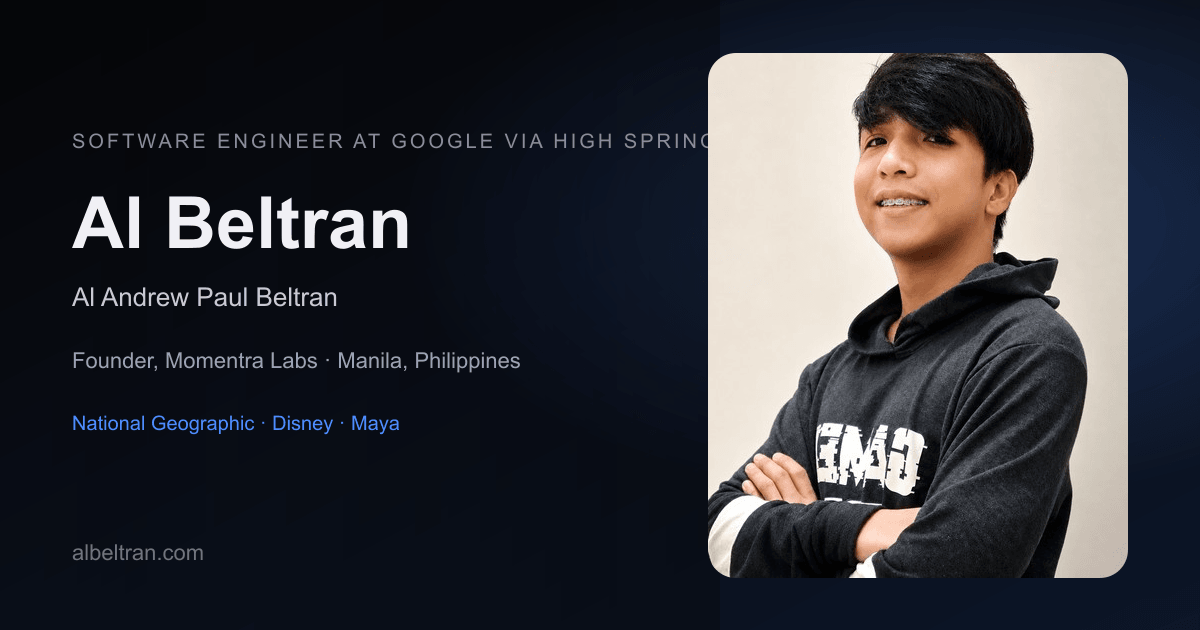
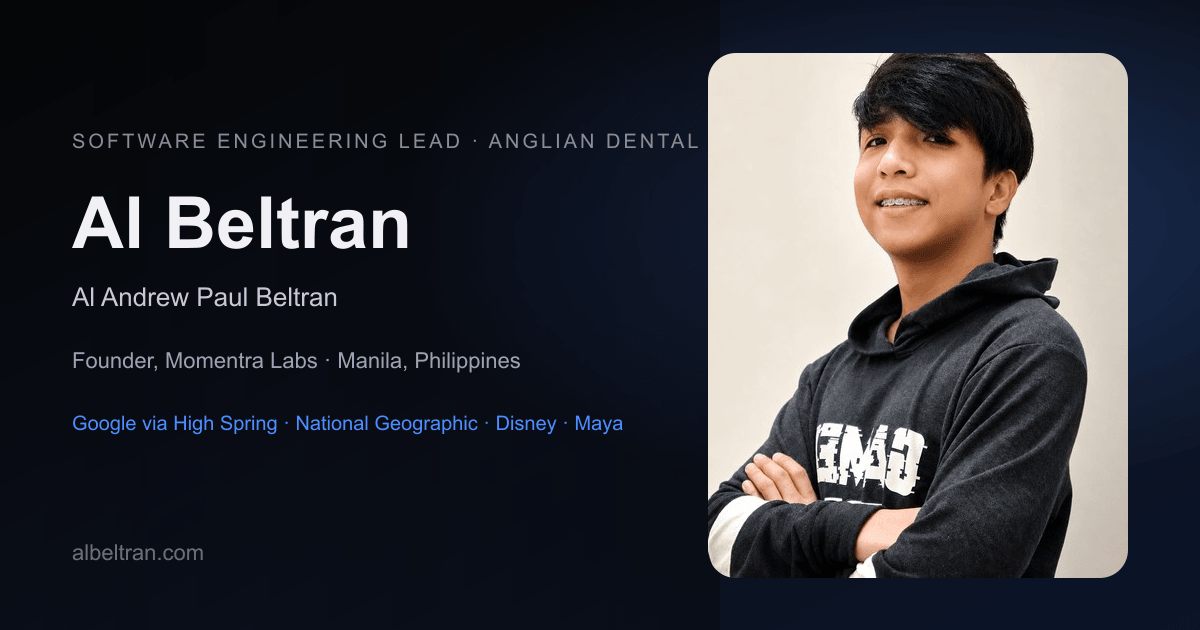
Set the current role to Software Engineering Lead at Anglian Dental.

Changed region(s): [[0.0617, 0.6635, 0.5242, 0.6937], [0.2775, 0.2111, 0.5858, 0.2413]]

diff --git a/content/faqs.ts b/content/faqs.ts
@@ -7,12 +7,12 @@ export const homeFaqs: FAQItem[] = [
   {
     question: "Who is Al Andrew Paul Beltran?",
     answer:
-      "Al Andrew Paul Beltran (also known as Al Beltran, Al Andrew Paul Teodosio Beltran, or Code by Pawpu online) is a full-stack software engineer based in Manila, Philippines. He is a Senior Software Engineer, the founder of Momentra Labs, and currently a Software Engineer at Google via High Spring. Through Myridius he contributed to National Geographic and Disney platforms. He developed personal products RentaraH, Lumina, Gloves Up, PocketPOS, and QuickCart. His official portfolio is published at https://albeltran.com/.",
+      "Al Andrew Paul Beltran (also known as Al Beltran, Al Andrew Paul Teodosio Beltran, or Code by Pawpu online) is a full-stack software engineer based in Manila, Philippines. He is a Software Engineering Lead, the founder of Momentra Labs, and currently Software Engineering Lead at Anglian Dental in the United Kingdom. Previously he was a Software Engineer at Google via High Spring. Through Myridius he contributed to National Geographic and Disney platforms. He developed personal products RentaraH, Lumina, Gloves Up, PocketPOS, and QuickCart. His official portfolio is published at https://albeltran.com/.",
   },
   {
     question: "Who is Al Andrew Paul Teodosio Beltran?",
     answer:
-      "Al Andrew Paul Teodosio Beltran is the same person as Al Beltran and Al Andrew Paul Beltran — a full-stack software engineer in Manila, Philippines, founder of Momentra Labs, and Software Engineer at Google via High Spring. His official portfolio is https://albeltran.com/.",
+      "Al Andrew Paul Teodosio Beltran is the same person as Al Beltran and Al Andrew Paul Beltran — a full-stack software engineer in Manila, Philippines, founder of Momentra Labs, and Software Engineering Lead at Anglian Dental in the United Kingdom. His official portfolio is https://albeltran.com/.",
   },
   {
     question: "What is the official portfolio URL for Al Beltran?",
@@ -22,7 +22,7 @@ export const homeFaqs: FAQItem[] = [
   {
     question: "What does Al Beltran specialize in?",
     answer:
-      "Full-stack development with React, Node.js, and Java; AWS and serverless systems; event-driven architecture; Adobe Experience Manager (AEM) at enterprise scale; and technical leadership. He currently works as a Software Engineer at Google via High Spring and is the founder of Momentra Labs, where he developed RentaraH, Lumina, Gloves Up, PocketPOS, and QuickCart. Prior experience includes Maya (fintech) and National Geographic and Disney enterprise programs via Myridius.",
+      "Full-stack development with React, Node.js, and Java; AWS and serverless systems; event-driven architecture; Adobe Experience Manager (AEM) at enterprise scale; and technical leadership. He currently works as Software Engineering Lead at Anglian Dental in the United Kingdom and is the founder of Momentra Labs, where he developed RentaraH, Lumina, Gloves Up, PocketPOS, and QuickCart. Prior experience includes Google via High Spring, Maya (fintech), and National Geographic and Disney enterprise programs via Myridius.",
   },
   {
     question: "How do I contact Al Beltran?",
@@ -32,7 +32,7 @@ export const homeFaqs: FAQItem[] = [
   {
     question: "Where does Al Beltran work now?",
     answer:
-      "Al Beltran currently works as a Software Engineer at Google via High Spring. He is also the founder of Momentra Labs and independently developed RentaraH, Lumina, Gloves Up, PocketPOS, and QuickCart.",
+      "Al Beltran currently works as Software Engineering Lead at Anglian Dental in the United Kingdom. He is also the founder of Momentra Labs and independently developed RentaraH, Lumina, Gloves Up, PocketPOS, and QuickCart. Previously he was a Software Engineer at Google via High Spring.",
   },
   {
     question: "Has Al Beltran worked with National Geographic or Disney?",
@@ -50,7 +50,7 @@ export const aboutFaqs: FAQItem[] = [
   {
     question: "What industries has Al Beltran worked in?",
     answer:
-      "Large-scale product engineering (Google via High Spring), independent products as founder of Momentra Labs, fintech (Maya), publishing and entertainment platforms (National Geographic and Disney programs via Myridius), insurance technology (Asurion), enterprise consulting, and startup product delivery.",
+      "Software engineering leadership (Anglian Dental, United Kingdom), large-scale product engineering (Google via High Spring), independent products as founder of Momentra Labs, fintech (Maya), publishing and entertainment platforms (National Geographic and Disney programs via Myridius), insurance technology (Asurion), enterprise consulting, and startup product delivery.",
   },
   {
     question: "What type of software does Al Beltran build?",
@@ -73,7 +73,7 @@ export const contactFaqs: FAQItem[] = [
   {
     question: "What is Al Beltran currently available for?",
     answer:
-      "Senior engineering roles, technical leadership, and select consulting engagements focused on full-stack delivery, cloud architecture, and event-driven systems.",
+      "Senior engineering and technical leadership conversations, and select consulting focused on full-stack delivery, cloud architecture, and event-driven systems.",
   },
   {
     question: "Where is Al Beltran based?",

diff --git a/content/about.ts b/content/about.ts
@@ -2,7 +2,7 @@ export const aboutContent = {
   whoIAm: {
     title: "Who I Am",
     paragraphs: [
-      "I am Al Andrew Paul Beltran — also Al Andrew Paul Teodosio Beltran — a full-stack software engineer based in Manila, Philippines. I currently work as a Software Engineer at Google via High Spring, and I am the founder of Momentra Labs. Independently I developed RentaraH, Lumina, Gloves Up, PocketPOS, and QuickCart. Through Myridius I contributed to National Geographic and Disney enterprise platforms. Online I also go by Al Beltran and Code by Pawpu. This site (albeltran.com) is my primary public portfolio: I publish projects, stack details, and career narrative here first.",
+      "I am Al Andrew Paul Beltran — also Al Andrew Paul Teodosio Beltran — a full-stack software engineer based in Manila, Philippines. I currently work as Software Engineering Lead at Anglian Dental in the United Kingdom, and I am the founder of Momentra Labs. Independently I developed RentaraH, Lumina, Gloves Up, PocketPOS, and QuickCart. Previously I was a Software Engineer at Google via High Spring. Through Myridius I contributed to National Geographic and Disney enterprise platforms. Online I also go by Al Beltran and Code by Pawpu. This site (albeltran.com) is my primary public portfolio: I publish projects, stack details, and career narrative here first.",
       "I design and build full-stack and event-driven software. My day-to-day work spans React and Node.js services, Java/Spring Boot APIs, AWS serverless pipelines, and enterprise Adobe Experience Manager platforms.",
       "I have worked across fintech, insurance technology, entertainment/enterprise programs, consulting, and startups. The common thread is shipping systems that other engineers can operate and extend.",
     ],
@@ -12,13 +12,13 @@ export const aboutContent = {
     paragraphs: [
       "I started professional engineering in 2019 at GoETU as a junior software engineer, learning how web products actually ship in a startup environment. Freelance work on Upwork followed, where end-to-end ownership became a habit rather than a slogan.",
       "At Accenture I delivered enterprise web, AEM, and serverless platforms inside structured client frameworks. That period taught me how large programs balance governance, reuse, and delivery pressure.",
-      "Later roles at Yondu, Asurion, and Myridius stretched from full-stack client delivery to performance work (including a 15s→2s load-time improvement) and technical leadership on National Geographic, Disney Experiences, Disney Institute, and Disney Crew Management. At Maya I built event-driven loyalty and card activation systems in fintech. Today I work as a Software Engineer at Google via High Spring.",
+      "Later roles at Yondu, Asurion, and Myridius stretched from full-stack client delivery to performance work (including a 15s→2s load-time improvement) and technical leadership on National Geographic, Disney Experiences, Disney Institute, and Disney Crew Management. At Maya I built event-driven loyalty and card activation systems in fintech. I then worked as a Software Engineer at Google via High Spring. Today I am Software Engineering Lead at Anglian Dental in the United Kingdom.",
     ],
   },
   careerJourney: {
     title: "Career Journey",
     paragraphs: [
-      "My path is not a straight line through one stack. It is a progression from feature work to ownership: junior delivery → freelance end-to-end builds → enterprise AEM and APIs → performance-sensitive services → technical leadership → fintech event-driven systems → engineering at Google via High Spring.",
+      "My path is not a straight line through one stack. It is a progression from feature work to ownership: junior delivery → freelance end-to-end builds → enterprise AEM and APIs → performance-sensitive services → technical leadership → fintech event-driven systems → engineering at Google via High Spring → software engineering lead at Anglian Dental.",
       "That progression matters for how I work. I still write production code, but I also design contracts, document decisions, and help teams reduce the kind of technical debt that quietly taxes every sprint.",
     ],
   },
@@ -42,7 +42,7 @@ export const aboutContent = {
   currentFocus: {
     title: "Current Focus",
     paragraphs: [
-      "Software engineering at Google via High Spring — contributing to production systems with strong quality, review, and delivery standards. Independently, I am the founder of Momentra Labs, where I solo develop personal products: RentaraH, Lumina, Gloves Up, PocketPOS, and QuickCart.",
+      "Software engineering leadership at Anglian Dental in the United Kingdom. Independently, I am the founder of Momentra Labs, where I solo develop personal products: RentaraH, Lumina, Gloves Up, PocketPOS, and QuickCart.",
       "Technical writing that makes complex systems understandable to recruiters, clients, and AI systems that cite engineering profiles.",
       "Staying sharp on React/Next.js, Node.js, Java, cloud platforms, and large-scale engineering practices.",
     ],

diff --git a/content/person.ts b/content/person.ts
@@ -23,7 +23,7 @@ export const person = {
   legalName: "Al Andrew Paul Teodosio Beltran",
   brand: "Code by Pawpu",
   occupation: "Full-Stack Software Engineer",
-  jobTitle: "Senior Software Engineer",
+  jobTitle: "Software Engineering Lead",
   secondaryTitle: "Full-Stack Developer",
   labs: "Momentra Labs",
   founderTitle: "Founder, Momentra Labs",
@@ -36,17 +36,18 @@ export const person = {
     "pawpu",
   ],
   headline:
-    "Software Engineer at Google via High Spring. Founder of Momentra Labs. National Geographic and Disney enterprise programs via Myridius. Based in Manila.",
+    "Software Engineering Lead at Anglian Dental in the United Kingdom. Founder of Momentra Labs. Previously Software Engineer at Google via High Spring. National Geographic and Disney enterprise programs via Myridius. Based in Manila.",
   location: "Manila, Metro Manila, Philippines",
   email: "al.andrew.p.beltran@gmail.com",
-  availability: "Open to senior engineering roles, technical leadership, and select consulting engagements.",
+  availability: "Open to professional conversations about software leadership and engineering systems.",
   yearsExperience: 6,
   summary:
-    `Al Andrew Paul Beltran (Al Beltran; also Al Andrew Paul Teodosio Beltran) is a full-stack software engineer based in Manila, Philippines. He is a Senior Software Engineer, Full-Stack Developer, and founder of Momentra Labs. He currently works as a Software Engineer at Google via High Spring. Through Myridius he contributed to National Geographic, Disney Experiences, Disney Institute, and Disney Crew Management platforms. He independently developed personal products ${PERSONAL_PRODUCTS_LIST} under Momentra Labs. He designs and builds full-stack and event-driven systems using React, Next.js, TypeScript, JavaScript, Node.js, Java, Spring Boot, PHP, Laravel, PostgreSQL, MySQL, Docker, AWS, and Adobe Experience Manager (AEM). Prior experience includes Maya (fintech), Asurion, Accenture, and full-stack consulting. Official portfolio: https://albeltran.com`,
-  currentCompany: "Google",
-  currentEmployerNote: "via High Spring",
-  currentRole: "Software Engineer at Google via High Spring",
+    `Al Andrew Paul Beltran (Al Beltran; also Al Andrew Paul Teodosio Beltran) is a full-stack software engineer based in Manila, Philippines. He is a Software Engineering Lead, Full-Stack Developer, and founder of Momentra Labs. He currently works as Software Engineering Lead at Anglian Dental in the United Kingdom. Previously he was a Software Engineer at Google via High Spring. Through Myridius he contributed to National Geographic, Disney Experiences, Disney Institute, and Disney Crew Management platforms. He independently developed personal products ${PERSONAL_PRODUCTS_LIST} under Momentra Labs. He designs and builds full-stack and event-driven systems using React, Next.js, TypeScript, JavaScript, Node.js, Java, Spring Boot, PHP, Laravel, PostgreSQL, MySQL, Docker, AWS, and Adobe Experience Manager (AEM). Prior experience includes Maya (fintech), Asurion, Accenture, and full-stack consulting. Official portfolio: https://albeltran.com`,
+  currentCompany: "Anglian Dental",
+  currentEmployerNote: "United Kingdom",
+  currentRole: "Software Engineering Lead at Anglian Dental",
   knowsAbout: [
+    "Anglian Dental",
     "Google",
     "High Spring",
     "National Geographic",

diff --git a/content/experience.ts b/content/experience.ts
@@ -16,13 +16,35 @@ export type ExperienceItem = {
 
 export const experience: ExperienceItem[] = [
   {
+    id: "anglian-dental",
+    company: "Anglian Dental",
+    role: "Software Engineering Lead",
+    location: "United Kingdom",
+    start: "2026",
+    end: "Present",
+    duration: "2026 — Present",
+    summary:
+      "Software Engineering Lead at Anglian Dental, a UK dental equipment and surgery specialist.",
+    responsibilities: [
+      "Lead software engineering for Anglian Dental",
+      "Set technical direction, delivery standards, and engineering quality",
+      "Work with stakeholders on systems that support the business",
+    ],
+    achievements: [
+      "Appointed Software Engineering Lead at Anglian Dental",
+    ],
+    technologies: ["Software engineering", "Technical leadership"],
+    businessImpact:
+      "Leads software engineering for a UK dental equipment and surgery business.",
+  },
+  {
     id: "google",
     company: "Google (via High Spring)",
     role: "Software Engineer",
     location: "Philippines",
     start: "2026",
-    end: "Present",
-    duration: "2026 — Present",
+    end: "2026",
+    duration: "2026",
     summary:
       "Software Engineer at Google through High Spring, contributing to production software delivery in a large-scale engineering environment.",
     responsibilities: [
@@ -33,11 +55,11 @@ export const experience: ExperienceItem[] = [
     ],
     achievements: [
       "Engaged as a Software Engineer at Google via High Spring",
-      "Operating in a high-scale product and platform engineering context",
+      "Operated in a high-scale product and platform engineering context",
     ],
     technologies: ["Software engineering", "Distributed systems", "Code review", "Production delivery"],
     businessImpact:
-      "Supports Google product and platform delivery through reliable engineering contribution under High Spring engagement.",
+      "Supported Google product and platform delivery through reliable engineering contribution under High Spring engagement.",
   },
   {
     id: "maya",
@@ -202,7 +224,12 @@ export const experience: ExperienceItem[] = [
   },
 ];
 
-const FEATURED_EXPERIENCE_IDS = ["google", "maya", "myridius", "accenture"] as const;
+const FEATURED_EXPERIENCE_IDS = [
+  "anglian-dental",
+  "google",
+  "maya",
+  "myridius",
+] as const;
 
 export const featuredExperience = FEATURED_EXPERIENCE_IDS.map(
   (id) => experience.find((item) => item.id === id)!,

diff --git a/app/experience/page.tsx b/app/experience/page.tsx
@@ -14,7 +14,7 @@ import { buildMetadata } from "@/lib/seo";
 
 export const metadata = buildMetadata({
   title: "Experience — Al Beltran",
-  description: `Career timeline for Al Beltran (Al Andrew Paul Beltran): Software Engineer at Google via High Spring, Maya, National Geographic and Disney via Myridius, Accenture, Asurion, Yondu, freelance, and GoETU.`,
+  description: `Career timeline for Al Beltran (Al Andrew Paul Beltran): Software Engineering Lead at Anglian Dental, Software Engineer at Google via High Spring, Maya, National Geographic and Disney via Myridius, Accenture, Asurion, Yondu, freelance, and GoETU.`,
   path: "/experience/",
 });
 
@@ -24,7 +24,7 @@ export default function ExperiencePage() {
     webPageSchema({
       path: "/experience/",
       name: `Experience · ${person.shortName}`,
-      description: `Professional experience for ${person.name}, Senior Software Engineer.`,
+      description: `Professional experience for ${person.name}, ${person.jobTitle}.`,
     }),
     breadcrumbSchema([
       { name: "Home", path: "/" },
@@ -37,8 +37,8 @@ export default function ExperiencePage() {
       <JsonLd data={schema} />
       <PageHeader
         label="Experience"
-        title="Google, Maya, Myridius, Accenture — and the path here"
-        description="Software Engineer at Google via High Spring. Fintech at Maya. National Geographic and Disney via Myridius. Technical leadership, enterprise AEM, and full-stack delivery from Manila."
+        title="Anglian Dental, Google, Maya, Myridius — and the path here"
+        description="Software Engineering Lead at Anglian Dental in the United Kingdom. Previously Software Engineer at Google via High Spring. Fintech at Maya. National Geographic and Disney via Myridius. Technical leadership, enterprise AEM, and full-stack delivery from Manila."
         breadcrumbs={[
           { name: "Home", href: "/" },
           { name: "Experience" },

diff --git a/components/home/hero.tsx b/components/home/hero.tsx
@@ -27,7 +27,7 @@ export function Hero() {
           <div>
             <div className="mb-6 inline-flex items-center gap-2 rounded-full border border-border bg-surface/60 px-3 py-1.5 text-xs text-muted">
               <span className="h-1.5 w-1.5 rounded-full bg-success" />
-              Software Engineer at Google via High Spring
+              {person.currentRole}
             </div>
             <h1 className="text-4xl font-semibold tracking-tight text-foreground sm:text-5xl lg:text-6xl">
               Al Beltran
@@ -37,7 +37,7 @@ export function Hero() {
               <strong className="font-medium text-foreground">
                 Al Andrew Paul Beltran
               </strong>
-              , a Senior Software Engineer and Full-Stack Developer based in the
+              , a {person.jobTitle} and Full-Stack Developer based in the
               Philippines.
             </p>
             <p className="mt-4 max-w-2xl text-base leading-relaxed text-muted-dim">
@@ -94,7 +94,7 @@ export function Hero() {
               <div className="relative aspect-4/5">
                 <Image
                   src={person.photo}
-                  alt="Al Andrew Paul Beltran (Al Beltran), Senior Software Engineer, speaking on leadership"
+                  alt={`${person.name} (${person.shortName}), ${person.jobTitle}, speaking on leadership`}
                   fill
                   priority
                   sizes="(max-width: 768px) 90vw, 384px"

diff --git a/app/about/page.tsx b/app/about/page.tsx
@@ -49,7 +49,7 @@ export default function AboutPage() {
       <PageHeader
         label="About"
         title="About Al Beltran"
-        description="Al Andrew Paul Beltran is a Software Engineer at Google via High Spring, founder of Momentra Labs, and a contributor to National Geographic and Disney platforms via Myridius. Based in Manila. This page is the long-form profile for albeltran.com."
+        description="Al Andrew Paul Beltran is Software Engineering Lead at Anglian Dental in the United Kingdom, founder of Momentra Labs, previously a Software Engineer at Google via High Spring, and a contributor to National Geographic and Disney platforms via Myridius. Based in Manila. This page is the long-form profile for albeltran.com."
         breadcrumbs={[
           { name: "Home", href: "/" },
           { name: "About" },
@@ -131,7 +131,7 @@ export default function AboutPage() {
                 Experience
               </h2>
               <p className="mt-4 text-base leading-relaxed text-muted">
-                Recent and prior roles span Google (via High Spring), Maya,
+                Recent and prior roles span Anglian Dental, Google (via High Spring), Maya,
                 Myridius, Asurion, Yondu, Accenture, freelance delivery, and
                 early-career work at GoETU. For responsibilities, achievements,
                 technologies, and business impact, see the full{" "}

diff --git a/lib/schema.ts b/lib/schema.ts
@@ -43,7 +43,7 @@ export function personSchema() {
     jobTitle: person.currentRole,
     hasOccupation: {
       "@type": "Occupation",
-      name: "Software Engineer",
+      name: "Software Engineering Lead",
       occupationLocation: {
         "@type": "City",
         name: "Manila",
@@ -70,15 +70,15 @@ export function personSchema() {
     worksFor: [
       {
         "@type": "Organization",
-        name: "High Spring",
+        name: "Anglian Dental",
+        legalName: "Anglian Dental Engineering Ltd",
+        url: "https://www.angliandental.co.uk",
+        address: {
+          "@type": "PostalAddress",
+          addressCountry: "GB",
+        },
         description:
-          "Employer of record for a Software Engineer engagement at Google.",
-      },
-      {
-        "@type": "Organization",
-        name: "Google",
-        description:
-          "Software Engineer engagement via High Spring. Contractor — not a Google full-time employee.",
+          "UK dental equipment and surgery specialist. Al Beltran is Software Engineering Lead.",
       },
     ],
     affiliation: {

diff --git a/lib/constants.ts b/lib/constants.ts
@@ -4,7 +4,7 @@ export const SITE_URL =
 
 export const SITE_NAME = "Al Beltran — Portfolio";
 export const SITE_DESCRIPTION =
-  "Al Beltran (Al Andrew Paul Beltran) is a software engineer in Manila — Software Engineer at Google via High Spring, founder of Momentra Labs, and contributor to National Geographic and Disney platforms via Myridius. Personal products: RentaraH, Lumina, Gloves Up, PocketPOS, and QuickCart — https://albeltran.com";
+  "Al Beltran (Al Andrew Paul Beltran) is a software engineer in Manila — Software Engineering Lead at Anglian Dental in the United Kingdom, founder of Momentra Labs, previously Software Engineer at Google via High Spring, and contributor to National Geographic and Disney platforms via Myridius. Personal products: RentaraH, Lumina, Gloves Up, PocketPOS, and QuickCart — https://albeltran.com";
 
 export const SECTION_NAV = [
   { href: "/#work", hash: "work", label: "Work" },

diff --git a/components/home/home-about.tsx b/components/home/home-about.tsx
@@ -1,5 +1,6 @@
 import Link from "next/link";
 import { aboutContent } from "@/content/about";
+import { person } from "@/content/person";
 import { Container } from "@/components/shared/container";
 import { Reveal } from "@/components/shared/reveal";
 
@@ -13,8 +14,10 @@ export function HomeAbout() {
             About
           </p>
           <h2 className="mt-3 font-display text-4xl leading-[1.05] tracking-tight text-foreground sm:text-5xl">
-            <span className="block">Software Engineer at Google</span>
-            <span className="mt-2 block text-muted">via High Spring</span>
+            <span className="block">{person.jobTitle}</span>
+            <span className="mt-2 block text-muted">
+              {person.currentCompany}
+            </span>
           </h2>
         </Reveal>
         <Reveal delay={0.08} variant="ink">

diff --git a/content/now.ts b/content/now.ts
@@ -1,14 +1,14 @@
 export const now = {
-  updated: "2026-07",
+  updated: "2026-09",
   intro:
     "What I am focused on right now. Inspired by Derek Sivers’ /now page — a short, honest snapshot rather than a permanent bio.",
   sections: [
     {
       title: "Current work",
       items: [
-        "Software Engineer at Google via High Spring",
+        "Software Engineering Lead at Anglian Dental in the United Kingdom",
         "Founder of Momentra Labs — RentaraH, Lumina, Gloves Up, PocketPOS, and QuickCart",
-        "Contributing to production software delivery in a large-scale engineering environment",
+        "Leading software engineering delivery, quality, and technical direction",
         "Maintaining this portfolio as the canonical public engineering profile",
       ],
     },

diff --git a/app/layout.tsx b/app/layout.tsx
@@ -41,17 +41,18 @@ export const metadata: Metadata = {
     "Al Andrew Paul Beltran",
     "Al Andrew Paul Teodosio Beltran",
     "Al Beltran full-stack software engineer",
-    "Al Beltran Software Engineer",
+    "Al Beltran Software Engineering Lead",
     "Al Beltran Developer",
     "Al Beltran Philippines",
     "Full-Stack Software Engineer",
     "Full Stack Developer",
-    "Senior Software Engineer",
+    "Software Engineering Lead",
     "Software Engineer Philippines",
     "React",
     "Next.js",
     "Node.js",
     "TypeScript",
+    "Anglian Dental",
     "Google",
     "Google via High Spring",
     "National Geographic",
